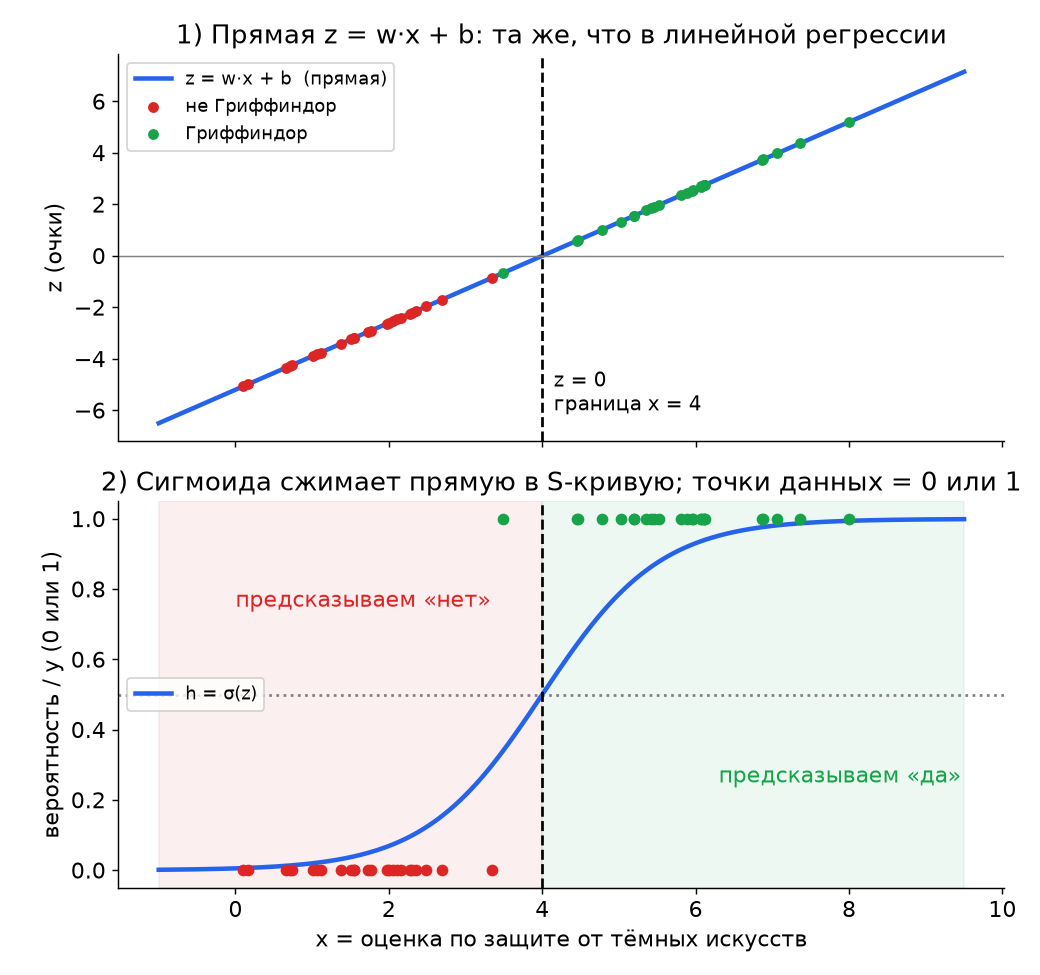
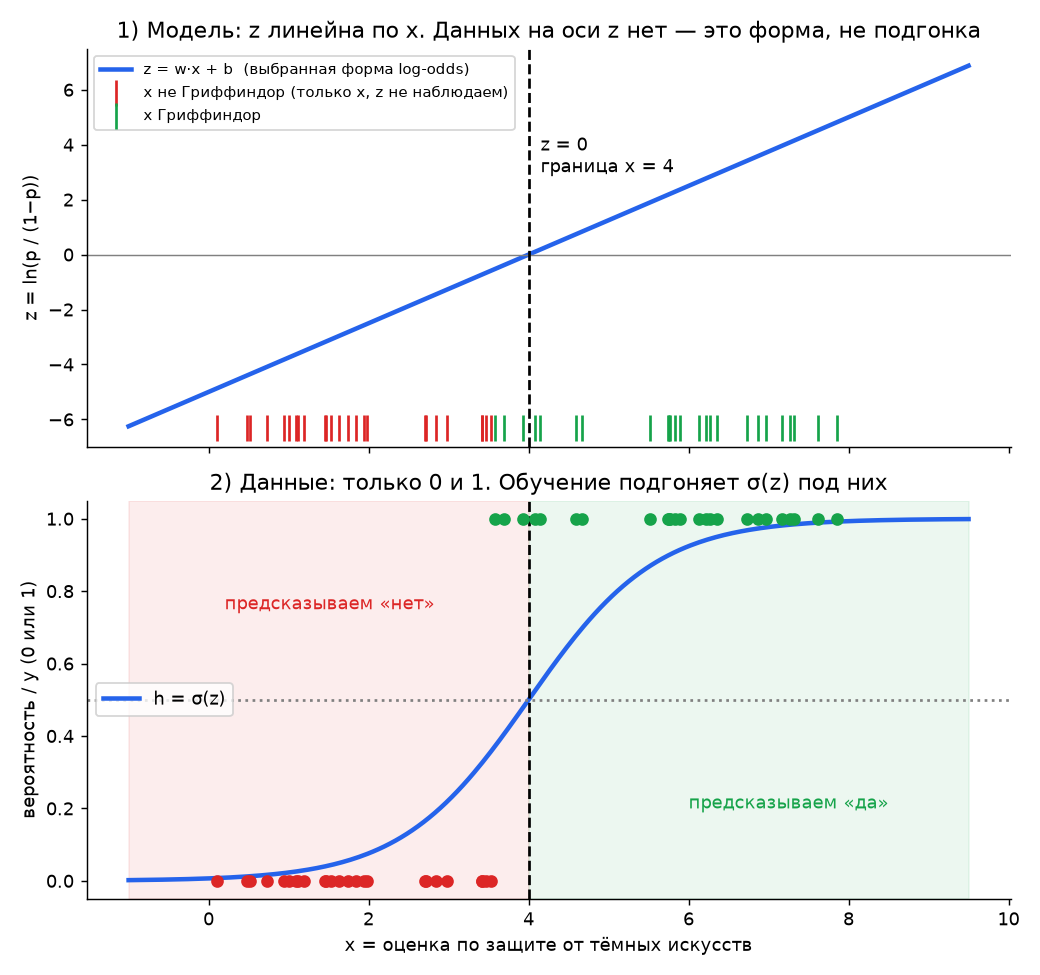
notes(ml): clarify z line is model form in decision boundary

diff --git a/vault/cs/ml/decision-boundary.md b/vault/cs/ml/decision-boundary.md
@@ -10,6 +10,7 @@ moc: [[ml-moc]]
 back: [[logistic-regression]]
 next:
 - [[sigmoid]]
+- [[why-linear-model]]
 - [[linear-regression]]
 - [[svm]]
 
@@ -23,11 +24,11 @@ next:
 
 ![[decision-boundary-1d.png]]
 
-1. Сверху: $z = w x + b$ — обычная прямая, как в [[linear-regression]]. По оси $x$ — оценка студента, по вертикали — очки $z$
-2. Снизу: [[sigmoid]] сжимает эту прямую в S-кривую $h = \sigma(z)$. Данные лежат на уровнях $y = 0$ и $y = 1$
+1. Сверху: $z = w x + b$ — **выбранная форма модели** для log-odds ($z = \ln\frac{p}{1-p}$), не линия через данные → [[why-linear-model]]. Значений $z$ в данных нет: есть только $x$ (засечки внизу) и класс
+2. Снизу: [[sigmoid]] переводит $z$ в вероятность $h = \sigma(z)$. Вот здесь настоящие данные: точки на уровнях $y = 0$ и $y = 1$, и обучение подгоняет S-кривую под них
 3. Где $z = 0$ ⇔ $h = 0.5$ — **граница решения**. С одним признаком это **точка** на оси $x$: $x = -\frac{b}{w}$
 
-Обучение двигает прямую $z$ (наклон $w$, сдвиг $b$) так, чтобы у зелёных $z > 0$, у красных $z < 0$.
+Отличие от [[linear-regression]]: там прямую подгоняют под наблюдаемые $y$. Здесь прямая $z$ ничего не «проходит» — обучение двигает $w, b$ так, чтобы $\sigma(z)$ была близка к 1 у зелёных и к 0 у красных. Граница сдвигается вместе с прямой.
 
 ## Два признака: появляется линия
 
